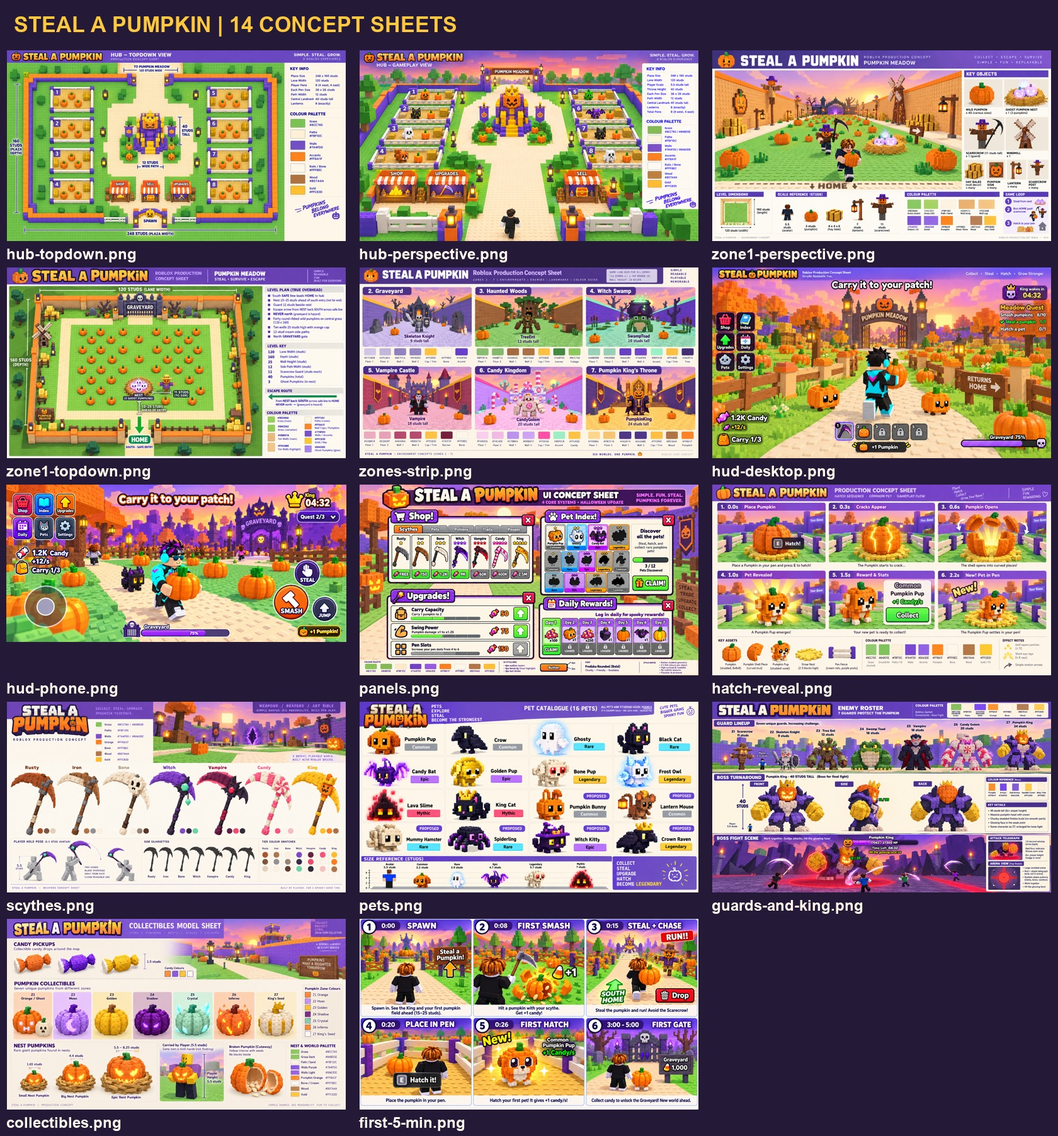
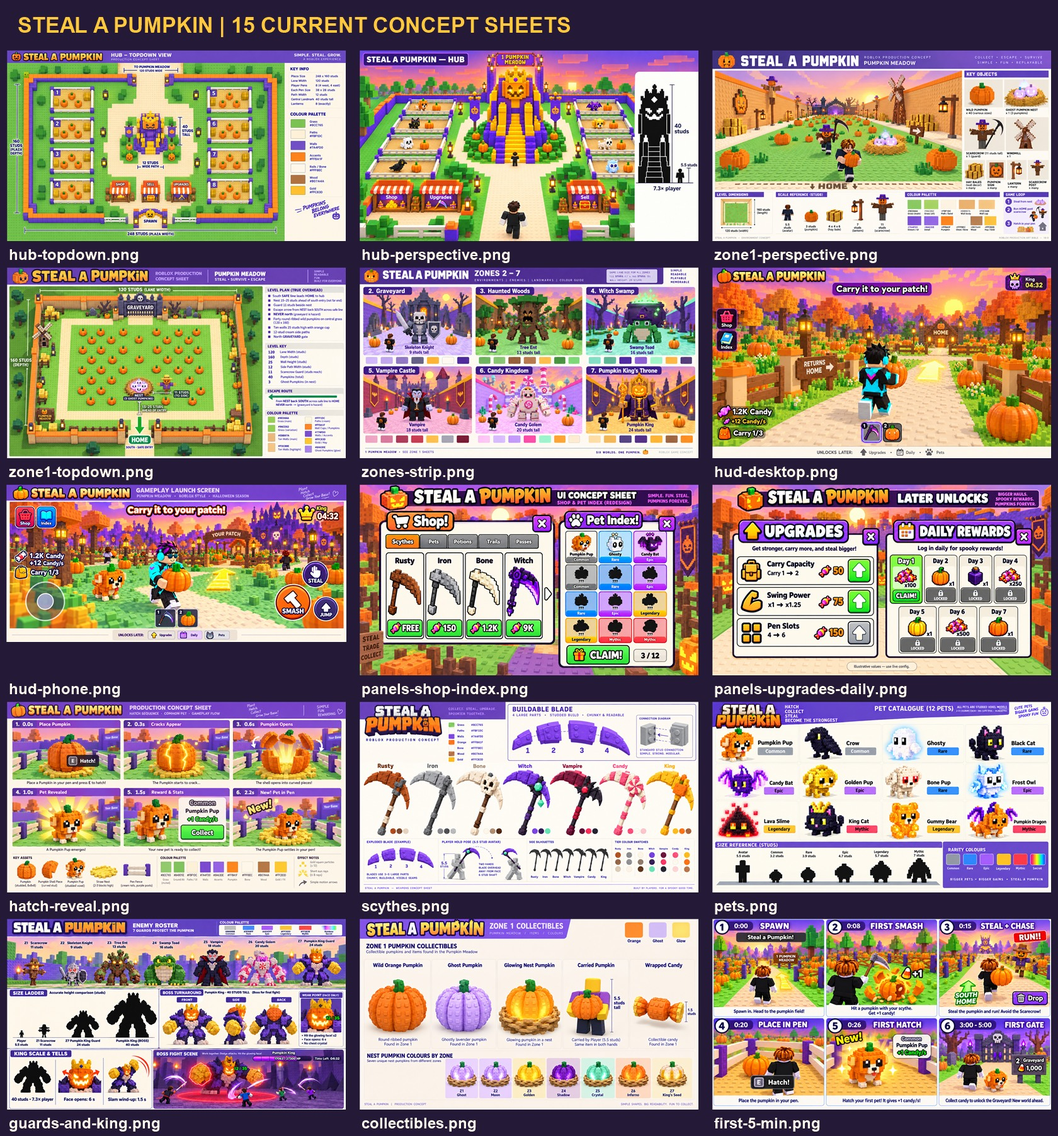
Redraw 11 concept sheets after blind critic (launch HUD, locked Pup, rarity colours)

diff --git a/pumpkin/production/concepts/make_contact_sheet.py b/pumpkin/production/concepts/make_contact_sheet.py
@@ -1,20 +1,23 @@
 from pathlib import Path
 from PIL import Image, ImageOps, ImageDraw, ImageFont
-root=Path(__file__).resolve().parent
-names=['hub-topdown','hub-perspective','zone1-perspective','zone1-topdown','zones-strip','hud-desktop','hud-phone','panels','hatch-reveal','scythes','pets','guards-and-king','collectibles','first-5-min']
-sheet=Image.new('RGB',(1680,1805),'#241a38')
-draw=ImageDraw.Draw(sheet)
-font=ImageFont.truetype('C:/Windows/Fonts/arialbd.ttf',24)
-title=ImageFont.truetype('C:/Windows/Fonts/arialbd.ttf',34)
-draw.text((22,20),'STEAL A PUMPKIN | 14 CONCEPT SHEETS',font=title,fill='#ffc83d')
-for i,name in enumerate(names):
-    path=root/(name+'.png')
-    with Image.open(path) as im: im.verify()
+root = Path(__file__).resolve().parent
+order = ['hub-topdown','hub-perspective','zone1-perspective','zone1-topdown','zones-strip','hud-desktop','hud-phone','panels-shop-index','panels-upgrades-daily','hatch-reveal','scythes','pets','guards-and-king','collectibles','first-5-min']
+current = {p.stem for p in root.glob('*.png') if not p.name.startswith('_refs') and not p.name.endswith('.v1.png')}
+names = [name for name in order if name in current] + sorted(current-set(order))
+sheet = Image.new('RGB', (1680, 80+((len(names)+2)//3)*345), '#241a38')
+draw = ImageDraw.Draw(sheet)
+font = ImageFont.truetype('C:/Windows/Fonts/arialbd.ttf', 24)
+title = ImageFont.truetype('C:/Windows/Fonts/arialbd.ttf', 34)
+draw.text((22,20), f'STEAL A PUMPKIN | {len(names)} CURRENT CONCEPT SHEETS', font=title, fill='#ffc83d')
+for i, name in enumerate(names):
+    path = root/(name+'.png')
     with Image.open(path) as im:
-        thumb=ImageOps.contain(im.convert('RGB'),(540,303))
-        x=(i%3)*560; y=80+(i//3)*345
-        sheet.paste(thumb,(x+(560-thumb.width)//2,y))
+        im.verify()
+    with Image.open(path) as im:
+        thumb = ImageOps.contain(im.convert('RGB'), (540,303))
+        x, y = (i%3)*560, 80+(i//3)*345
+        sheet.paste(thumb, (x+(560-thumb.width)//2,y))
         draw.text((x+10,y+310),name+'.png',font=font,fill='#fff8ec')
-        print(name,im.size,round(im.width/im.height,4))
+        print(name,im.size)
 sheet.save(root/'_sheet.jpg',quality=92)
 

diff --git a/pumpkin/production/concepts/CONCEPTS.md b/pumpkin/production/concepts/CONCEPTS.md
@@ -1,10 +1,20 @@
-# Steal a Pumpkin - concept builder guide
+# Steal a Pumpkin — concept builder guide
 
-14 built-in image_gen PNGs. No game code edits or commit. `_sheet.jpg` is the contact sheet; `PROMPTS.md` is the prompt log.
+15 current PNG concept sheets. Redraws and corrections used the built-in imagegen tool only. Ten original targets have .v1.png backups. panels.png is replaced by two current sheets. No game code edits or commit.
 
-Checked all seven approved TARGET.md files and 35 reference frames, SECTION-PALETTE.md, PatchConfig Zones/Pets/PetSizes/Seeds/Tools, and Keystone Roblox Process Playbook and 2D-stage decision. Independent critic compared sheets to Steal an Egg (world/models/chase) and Pet Simulator 99 (UI/feedback). No downloaded game art or code reused; reference redistribution licence UNKNOWN, frames are review material only.
+Checked: existing sheets, hatch-reveal.png identity, combat-boss/TARGET.md, full PatchConfig.luau including later additions/rarity overrides, and existing Steal an Egg / Pet Simulator 99 reference boards. Existing kit and assets reused as references; no external game code or art downloaded. Reference redistribution licence UNKNOWN; _refs are review material.
 
-Owner-approved style: studded world and voxel pets, 2-3 base colours/object, Halloween palette, PS99 UI kit. New concepts await owner visual approval. Sizes below are design targets except explicitly config values. Exact prose values override generated label errors. No runtime/camera/mobile test is claimed. Bright warm afternoon palette supersedes older darker board lighting: ClockTime16.5 target; no blue terrain/sky, purewhite world trim or acidgreen grass. Cyan rarity UI/FrostOwl accents are exceptions for characters/UI.
+## Locked build rules — 2026-10-11
+
+- Pumpkin Pup authority: hatch-reveal.png. Chubby orange studded voxel puppy, green head stem, big black eyes with square white highlights, cream muzzle/chest/paws, black nose, short four legs and little tongue.
+- Rarity tokens: Common **#B8B8B8**, Rare **#3D8BFF**, Epic **#A64DFF**, Legendary **#FFC83D**, Mythic **#FF3B3B**, Secret **rainbow gradient**. Exact tokens govern implementation; generated gloss/shading is not an exact pixel swatch.
+- Wild pumpkins: round, ribbed, orange, stemmed, faceless. Nest pumpkins: same shell with whole-shell orange/ghost-lavender glow in Zone 1; no glowing eyes/mouth. Guards and King retain their character faces.
+- Zones: **1 Pumpkin Meadow, 2 Graveyard, 3 Haunted Woods, 4 Witch Swamp, 5 Vampire Castle, 6 Candy Kingdom, 7 Pumpkin King's Throne**.
+- Boss weak point: **glowing face only**, green **12 / 35** HP tag, **Hit the glowing face! x2** banner during 6-second opening. No chest crystal.
+- Launch HUD: left Shop/Index only; bottom-left Candy + income/s + Carry 1/3; one goal banner; one glowing ground arrow; small top-right King timer; two-slot hotbar scythe/carried pumpkin. Mobile adds joystick, SMASH, STEAL, JUMP. No quests/progress/extra system tiles; at most one small toast.
+- Numeric stud dimensions below govern building; generated diagrams are approximate visual targets. No runtime/camera/mobile test is claimed.
+- Warm peach/lavender sunset, muted green terrain, cream paths, grape/orange walls, PS99 rounded bevel UI. Four unrequested sheets retain original artwork; these locks override older inconsistencies in them.
+- .v1 and _refs files are not current builder sheets and are excluded from _sheet.jpg.
 
 ## hub-topdown.png
 
@@ -14,13 +24,14 @@ Owner-approved style: studded world and voxel pets, 2-3 base colours/object, Hal
 - Three stalls: Shop, Sell, Upgrades. South spawn, north Pumpkin Meadow gate.
 - Grass #8CC765/#84BD5E, paths #FBF1DC, walls #7A4FD0/#8A63DE, caps #FF8A1F.
 
+
 ## hub-perspective.png
 
-- Match overhead layout: 8 pens, 3 stalls, one north gate and 40-stud throne.
-- Camera target: behind 5.5-stud avatar, about 15 studs high; verify default zoom in Studio.
-- Stalls occupy side alcoves; keep a 12-stud clear route around the throne.
-- Cream rails, grape posts, straw #F2DC9A pen floors; round hatching pumpkins.
-- Secondary station signs target 6 studs high; distinguish them by icon and silhouette.
+- Eight pens, four each side; stalls Shop, Sell, Upgrades in side alcoves; north gate 1 Pumpkin Meadow.
+- Central throne **40 studs** beside **5.5-stud avatar**, about **7.3× player height**; same-baseline inset.
+- Pens: Pumpkin Pup, Crow, Ghosty, Black Cat, Candy Bat, Golden Pup, Bone Pup, Frost Owl only.
+- Locked orange Pumpkin Pup; round faceless pumpkins; cream rails, grape posts, straw floors.
+- Clear routes at least 12 studs. Environment sheet omits HUD; default-camera sightline needs Studio verification.
 
 ## zone1-perspective.png
 
@@ -31,6 +42,7 @@ Owner-approved style: studded world and voxel pets, 2-3 base colours/object, Hal
 - Escape SOUTH HOME across the safe line; Graveyard gate north is progression.
 - Five prop families: hay, windmill, pumpkin sign, decorative scarecrows, lanterns.
 
+
 ## zone1-topdown.png
 
 - Dimension authority: 120 WIDTH × 160 DEPTH, 25 wall height, 12 path width.
@@ -38,39 +50,49 @@ Owner-approved style: studded world and voxel pets, 2-3 base colours/object, Hal
 - Starter nest 15–25 studs beyond south entry; one 11-stud guard directly adjacent.
 - 40 round wild pumpkins; three pale Ghost nest pumpkins; match perspective palette.
 
+
 ## zones-strip.png
 
-- Six panels: Graveyard, Haunted Woods, Witch Swamp, Vampire Castle, Candy Kingdom, Pumpkin King's Throne.
-- Config guards/heights: Skeleton Knight 9, Tree Ent 13, Swamp Toad 16, Vampire 18, Candy Golem 20, Pumpkin King 24 studs.
-- Floor pairs: D7CDEB/CFC4E4; 8FC87A/86BF72; A8D8C0/9ED0B8; EAB8C8/E2AEBF; FAD0E6/F4C4DE; FFD98A/F8CE78.
-- Wall pairs: 8E7FC4/9F92D2; A06A3C/B07A4A; 6A42BC/7A4FD0; A8406A/B8507A; C79BEA/D8B0F2; 4A2D7A/5A3A8E.
-- Landmarks: crypt, hollow tree, cauldron, castle, candy factory, throne. Factory belongs inside Candy Kingdom.
-- All lanes 120 × 160, walls 25; Swamp water muted mint #9ED0B8, never blue.
+- Six panels: **2 Graveyard, 3 Haunted Woods, 4 Witch Swamp, 5 Vampire Castle, 6 Candy Kingdom, 7 Pumpkin King's Throne**.
+- Guards fill about half each scene height; lane floors and routes remain readable.
+- Skeleton Knight 9, Tree Ent 13, Swamp Toad 16, Vampire 18, Candy Golem 20, Pumpkin King guard 24 studs.
+- Landmarks: crypt, hollow tree, cauldron, castle, candy factory, throne.
+- Round ribbed faceless orange wild pumpkins; lanes 120 × 160, walls 25 studs.
+- Original floor/wall palettes retained; Swamp floor muted mint, never blue.
 
 ## hud-desktop.png
 
-- 1920 × 1080 design, 16:9; Fredoka rounded font with 3 px dark stroke, 4–5 px for banners.
-- Left 2 × 3 icon tiles, 86 px target, within 15% width; currency stack lower left.
-- One plain objective, one King/event timer, right quest tracker; centre 30–40% clear.
-- Yellow #FFE14A toasts: 28 px, rise 40 px, fade 1.2 s, maximum four; thin next-gate bar.
-- Full HUD shows unlocked systems. Opening three minutes capped at 8 elements; counters illustrative.
+- Launch HUD only: Shop/Index left; Candy, income/s, Carry 1/3 bottom-left.
+- One top-centre goal, one glowing ground arrow toward HOME patch, small King timer top-right.
+- Exactly two hotbar slots: scythe, faceless round carried pumpkin; avatar holds it in both hands.
+- No quests, progress bar or extra system tiles. Gameplay centre clear.
+- Edge inset **UNLOCKS LATER: Upgrades • Daily • Pets** is builder guidance outside live HUD.
+- Design target 1920 × 1080; illustrated counters are examples.
 
 ## hud-phone.png
 
-- 19.5:9 landscape, reference 2340 × 1080; 32 logical px safe inset, 48 logical px minimum tap targets.
-- Currency inside gameplay above left joystick; objective top centre, single King chip and collapsed quest upper right.
-- Separate Smash, Steal and Jump controls on right; keep centre 40% clear.
-- Mobile can adapt menu to 3 columns × 2 rows; desktop remains 2 × 3.
-- Verify actual mobile scaling in Studio; this image is a visual target.
+- Roblox mobile landscape; wide gameplay frame with separate builder footer.
+- Shop/Index top-left; joystick bottom-left; Candy/income/carry directly above it.
+- Big orange SMASH and purple STEAL, smaller purple JUMP bottom-right.
+- One goal, one ground arrow toward patch, small King timer, exactly two hotbar slots.
+- Locked Pumpkin Pup; faceless round pumpkins; no quests/progress/extra menu tiles.
+- Later-unlock strip outside gameplay. Targets: 32 logical px safe inset, 48 logical px minimum tap area; Studio mobile verification pending.
 
-## panels.png
+## panels-shop-index.png
 
-- Four panels: Shop/Scythes, Index, Upgrades, Daily. Cream cards, grape/orange headers, red X, glossy bevel.
-- Individual panel target 0.5w × 0.62h; 4 px outline, 4 px lower lip, 3 px text stroke.
-- Seven tiers: Rusty, Iron, Bone, Witch, Vampire, Candy, King. Config candy prices: 0/150/1,200/9,000/60,000/400,000/2,500,000.
-- Index builder count: 12 slots, 3 known/9 silhouettes; rarity borders, stars, labels, progress and green Claim. Generated extra tile is not a build instruction.
-- Upgrade rows show before/after, segmented progress, cost and green/grey arrow; Daily has 7 day tiles and one current Claim.
-- Upgrade prices and daily rewards shown are illustrative; use live configuration.
+- Two large panels in cream/grape/orange PS99 kit; purple close buttons, larger labels.
+- Scythes tab: four visible cards Rusty FREE, Iron 150, Bone 1.2K, Witch 9K; chevron for later tiers.
+- Iron silver/grey, Rusty brown; green purchase buttons.
+- Index exactly **3 columns × 4 rows = 12 tiles**: three revealed, nine silhouettes.
+- Pumpkin Pup Common, Ghosty Rare, Candy Bat Epic; locked rarity borders, 3 / 12 count, one Claim button.
+- Remaining seven-tier names/prices are Rusty/Iron/Bone/Witch/Vampire/Candy/King at 0/150/1,200/9,000/60,000/400,000/2,500,000 Candy.
+
+## panels-upgrades-daily.png
+
+- Separate **later-unlocked** modal designs; never place their tiles in launch HUD.
+- Upgrades: Carry Capacity, Swing Power, Pen Slots; large before/after values, costs, green/grey arrows.
+- Daily exactly seven tiles arranged 4 + 3; Day 1 Claim, other days locked.
+- Values/rewards illustrative; use live config. Round faceless pumpkin rewards; no invented pets.
 
 ## hatch-reveal.png
 
@@ -80,54 +102,59 @@ Owner-approved style: studded world and voxel pets, 2-3 base colours/object, Hal
 - Same studded voxel Pumpkin Pup; Common grey, income green +1 Candy/s example, green Collect.
 - Effect target: at most 8 rays and 12 spark chips; avoid covering gameplay.
 
+
 ## scythes.png
 
-- Exactly 7 tiers: Rusty, Iron, Bone, Witch, Vampire, Candy, King. WoodenScythe internal ID displays Iron Scythe.
-- Long stepped crescent blades; shafts about 6 studs, blade widths 3.6–6 studs as concept targets.
-- Tier motifs: tape, rivets, skull, mint gem, bat wings, pinwheel, crowned pumpkin.
-- 2–3 base colours plus one glow accent; studs on blades/collars; no realistic textures.
-- Held pose compares 5.5-stud avatar; blade away from face, two hands, readable swing arc; validate actual grip.
+- Exactly seven tiers: Rusty, Iron, Bone, Witch, Vampire, Candy, King.
+- Rusty reddish brown blade/taped wood shaft; **Iron silver/grey metal**, dark grey shaft, riveted collar.
+- Blades use **3–5 large chunky block/wedge parts** with visible seams; exploded examples show four pieces.
+- Motifs: tape, rivets, skull, mint gem, bat wings, pinwheel, crowned pumpkin medallion.
+- 2–3 base colours plus glow; about 6-stud shafts; held pose against 5.5-stud avatar.
+- Technical inset replaces unnecessary world/HUD. Validate actual grip, swing and part counts in Studio.
 
 ## pets.png
 
-- 16 designs: ten config pets plus six PROPOSED additions; proposals are not authorized game content.
-- Config: Pumpkin Pup/Crow Common; Ghosty/Black Cat Rare; Candy Bat/Golden Pup Epic; Bone Pup/Frost Owl Legendary; Lava Slime/King Cat Mythic.
-- Proposals: Pumpkin Bunny, Lantern Mouse, Mummy Hamster, Spiderling, Witch Kitty, Crown Raven.
-- Studded voxel bodies, stepped ears/wings/tails, big black eyes with one bone highlight; 2–3 base colours.
-- Config heights: Common 3.2, Rare 3.9, Epic 4.7, Legendary 5.7, Mythic 7 studs; avatar 5.5.
-- Common no aura; Rare cyan rim, Epic violet, Legendary gold, Mythic rose; character/UI exceptions allowed.
+- **12 roster designs only**: Pumpkin Pup, Crow, Ghosty, Black Cat, Candy Bat, Golden Pup, Bone Pup, Frost Owl, Lava Slime, King Cat, Gummy Bear, Pumpkin Dragon.
+- Full config contains 15 pets. Selection uses original ten plus Gummy Bear and Pumpkin Dragon; Moth, Toad and Pumpkin Kinglet are not depicted. No PROPOSED tags.
+- Final config rarities: Pumpkin Pup/Crow Common; Ghosty/Black Cat/Bone Pup Rare; Candy Bat/Golden Pup/Frost Owl Epic; Lava Slime/Gummy Bear Legendary; King Cat/Pumpkin Dragon Mythic.
+- Exact hatch-reference orange Pumpkin Pup; studded voxel bodies, stepped ears/wings/tails, 2–3 base colours.
+- Size targets against **5.5-stud avatar**: Common 3.2, Rare 3.9, Epic 4.7, Legendary 5.7, Mythic 7 studs.
+- Same-baseline silhouettes show size progression; numeric values govern construction. Secret rainbow is only a palette swatch.
 
 ## guards-and-king.png
 
-- Seven guards, exact config names/heights from zones-strip; avatar 5.5-stud scale reference.
-- King boss target 40 studs, separate from 24-stud Zone 7 guard; consistent front/side/back turnaround.
-- Orange crowned pumpkin head, purple armour, gold fists, walking feet; separate arms for tells.
-- One HP bar 40–45% screen width with six dividers, one timer; small green weak-point tag.
-- Red #FF1A1A floor telegraphs, 1.5 s slam wind-up target, attacking fist outline; red reserved for threats.
-- Dull purple arena, clear avatars/crescent trails; illustrated HP is not verified live stats.
+- Seven zone guards; Zone 1 Scarecrow 11, Zone 7 Pumpkin King guard 24 studs.
+- Separate King boss **40 studs**. Size ladder: **Player 5.5 / Zone 1 guard 11 / Zone 7 guard 24 / King 40**.
+- Orange crowned head, purple armour, gold fists, walking feet and separate arms.
+- **Face-only glowing weak point**, green 12 / 35 HP tag; face opens 6 seconds, not a six-second stun.
+- Exact opening banner: **Hit the glowing face! x2**. No chest crystal.
+- Fight inset: dull purple arena, one segmented boss HP bar, one timer; red floor telegraph and attacking-fist outline, slam wind-up 1.5 seconds.
+- HP examples are illustrative. Build targets override approximate silhouette ratios.
 
 ## collectibles.png
 
-- Wrapped candy target 1.5 studs wide; orange/grape/gold/bone wrappers, bright chunky pickups.
-- Pumpkins must be ROUND, ribbed, lobed, stemmed; hollow orange rind, cream seeds, NO cubes inside.
-- Config hoard types by zone: Ghost, Moon, Golden, Shadow, Crystal, Inferno, King's Seed. Orange is starter wild type.
-- Visual size ladder: 1.65 small, 4.4 big, 5.5–8.25 nest pumpkin; concept targets, not balance changes.
-- Player carries pumpkin ONLY in two hands; nest remains on ground.
+- **Zone 1 only** primary catalogue: wild orange pumpkin, ghost-lavender pumpkin, glowing nest pumpkin, carried pumpkin, wrapped candy.
+- All pumpkins round/ribbed/stemmed/faceless; no cube cores. Nest glow covers the whole shell.
+- Avatar 5.5 studs carries same pumpkin in both hands; wrapped candy target 1.5 studs wide.
+- Small per-zone nest strip: **1 Ghost, 2 Moon, 3 Golden, 4 Shadow, 5 Crystal, 6 Inferno, 7 King's Seed**.
+- Item state does not assign rarity; no invented rarity pills.
 
 ## first-5-min.png
 
-- Six panels: spawn, smash, steal/chase, place, hatch, first gate; same avatar/pup/guard.
-- TARGET timeline 0:00/0:08/0:15/0:20/0:26/3:00–5:00; not measured playtest results.
-- Three objectives: Steal a Pumpkin! → Carry it to your patch! → Hatch it! Placed prompt: E Hatch!
-- Chase SOUTH HOME, guard follows from north; only final panel approaches Graveyard. Config gate price 1,000 candy.
-- Round pumpkins, curved rind, candy arc, one floater; Common Pumpkin Pup +1 Candy/s, New! toast/free Index marker.
-- Maximum 8 opening HUD items; no blocking modal or purchase prompt in first five minutes.
+- Six beats: spawn, smash, steal/chase, place, hatch, first gate; same avatar and locked orange Pumpkin Pup.
+- Target timeline 0:00 / 0:08 / 0:15 / 0:20 / 0:26 / 3:00–5:00; not measured results.
+- Spawn goal **Steal a Pumpkin!**, arrow toward **1 Pumpkin Meadow**. Chase escapes **SOUTH HOME**, away from northern guard.
+- **Purple Drop button**; red RUN means danger. Placed interaction **E Hatch!**.
+- Round faceless pumpkins, hollow curved rind/cream seeds, one candy floater.
+- Pup in hatch/gate beats matches hatch-reveal.png; Common grey, green +1 Candy/s.
+- Final gate **2 Graveyard**, shown price 1,000 Candy. Storyboard vignettes omit full HUD; two HUD sheets are launch authority.
 
 ## Review limits and lessons
 
-Least settled: **hub-perspective** (default-camera sightline needs Studio proof) and **panels** (dense small labels; Index image has an extra tile). Build the precise counts above. Owner phone review is still pending.
+Visually checked all 11 new current sheets against the requested locks and existing Steal an Egg / PS99 references. Used targeted built-in imagegen corrections for cubic pumpkins, face-shaped nest glows, stale rarity labels, extra HUD and misleading rulers. Independent read-only critic reviewed all 11 changed PNGs, the contact sheet, hatch reference, model/UI reference boards, boss TARGET and final config rarity overrides: PASS, no serious mismatch requiring another redraw. No numeric score assigned. Scale drawings remain approximate; runtime behavior was not tested. Studio scale/camera/mobile checks remain UNKNOWN.
 
-- When escape and progression share a lane, draw HOME direction first because the far gate otherwise reads as the escape goal.
-- When using studded style, specify round hollow pumpkins separately because generation tends to cube every object.
-- When generating mobile HUDs, require currency inside gameplay because asset margins can hide missing controls.
+- When a config mutates its roster later, read the overrides because the first table can contain stale rarities.
+- When generating nest pumpkins, request whole-shell glow because localized light can become a jack-o-lantern face.
+- When comparing scale, use one baseline because perspective and labels alone can hide wrong proportions.
+
 

diff --git a/pumpkin/production/concepts/PROMPTS.md b/pumpkin/production/concepts/PROMPTS.md
@@ -111,3 +111,81 @@ Keep studded world, eightpens4perside, throne40stud, threestalls andcolour. Came
 Reference: concepts/hub-perspective.png
 
 Final cleanup: hub-perspective added missing Upgrade stall, then moved it beside Shop to clear centre route; first-5-min recomposed to 16:9; scythes title Wooden renamed Iron. References were each current concept PNG.
+
+
+## Redraw pass — 2026-10-11 (built-in imagegen only)
+
+Shared prompt:
+
+STEAL A PUMPKIN production concept. Landscape 16:9. Match existing cream page/grape title strip, warm peach sunset, orange/grape/bone/gold Halloween palette, actual Roblox studded brick world and chunky voxel models, PS99 glossy bevel rounded bold dark-outlined UI. Big readable text, sparse callouts. Round ribbed stemmed pumpkins with NO faces and NO cube cores; nest pumpkins same shape glowing orange or ghost lavender in Zone1. Pets may have faces; guards and King keep their existing character faces, King weak point ONLY glowing FACE with green 12 / 35 tag, no chest crystal. Pumpkin Pup exact hatch reference: chubby orange studded voxel puppy, wide square head, drooping block ears, green stem, big black eyes with square white highlight, cream muzzle/chest/paws, black square nose, little red tongue, four short legs. Rarity labels/borders: Common #B8B8B8; Rare #3D8BFF; Epic #A64DFF; Legendary #FFC83D; Mythic #FF3B3B; Secret rainbow. Zone1 Pumpkin Meadow,2 Graveyard,3 Haunted Woods,4 Witch Swamp,5 Vampire Castle,6 Candy Kingdom,7 Pumpkin King's Throne. Gameplay launch HUD only Shop Index left, Candy and income/s and Carry1/3 bottom-left, ONE top centre goal banner, ONE glowing ground arrow toward goal, small King timer top-right, two-slot hotbar scythe and faceless carried pumpkin; no quest list/progress bar/Daily/Pets/Settings/Upgrades tiles. At most one small toast. Red danger only except fixed Mythic rarity.
+
+### hud-desktop.png
+
+References: hud-desktop.v1.png, hatch-reveal.png
+
+Redraw image1 desktop launch HUD. Remove entire six-tile cluster, quests, bottom gate progress, extra hotbar slots and cube pets. Use only Shop and Index stacked far left. Bottom-left '1.2K Candy', '+12 Candy/s', 'Carry 1/3'. Top-centre one grape banner 'Carry it to your patch!'; top-right SMALL 'King 04:32' chip. Bottom-centre EXACTLY two hotbar slots numbered1 scythe and2 faceless round pumpkin. Avatar carrying ribbed pumpkin in BOTH hands, centre open around avatar. One single glowing gold ground arrow points to HOME patch, not far progression gate. Inset separate builder strip along outer bottom sheet margin 'UNLOCKS LATER: Upgrades • Daily • Pets' as small grey icons, distinctly outside gameplay. No additional UI. Same scene/art quality as reference, readable 16:9 desktop.
+
+### hud-phone.png
+
+References: hud-phone.v1.png, hatch-reveal.png
+
+Redraw mobile landscape launch HUD. Wide 19.5:9 gameplay frame inside landscape production sheet with narrow outer builder footer. Top-left ONLY Shop and Index tiles. Bottom-left translucent joystick, Candy '+12 Candy/s' Carry1/3 immediately above joystick. Big orange SMASH and purple STEAL buttons plus smaller purple JUMP bottom-right. Top-centre one goal 'Carry it to your patch!', small top-right 'King 04:32'. Exactly two-slot hotbar scythe/pumpkin lower centre. Centre empty of UI and open lane around avatar carrying faceless round ribbed orange pumpkin with both hands. One glowing GOLD ground arrow toward nearby HOME patch. No quests, progress, extra menu tiles. Footer inset 'UNLOCKS LATER: Upgrades • Daily • Pets' clearly outside live screen. Large readable control text.
+
+### panels-shop-index.png
+
+References: panels.v1.png, hatch-reveal.png
+
+Split redesign, ONLY two large panels side by side on cream concept page: SHOP on left and INDEX on right. Shop Scythes tab, EXACTLY FOUR visible tier cards Rusty brown 'FREE', Iron SILVER/GREY '150', Bone cream '1.2K', Witch purple '9K'. Big names and prices, green purchase buttons, chunky blades made3-5 blocks. One small forward chevron suggests later tiers. Index EXACT3 columns x4 rows=12 tiles. First3 revealed Pumpkin Pup Common grey, Ghosty Rare blue, Candy Bat Epic purple. Remaining9 black silhouettes with rarity borders: row2 Common/Rare/Epic; row3 Rare/Epic/Legendary; row4 Legendary/Mythic/Mythic. No extra tile outside grid. No progress bar, no long help text, no upgrades/daily panel. Green Claim button below grid, small '3 / 12' count. Orange Shop header, grape Index header, cream cards thick dark outlines and glossy bevels, big sparse text. Locked Pup identity from image2.
+
+### panels-upgrades-daily.png
+
+References: panels.v1.png
+
+Split redesign ONLY two LARGE later-unlocked modal panels side by side UPGRADES and DAILY. Sheet title 'LATER UNLOCKS'. Upgrades three spacious rows Carry Capacity '1 → 2' example cost50, Swing Power 'x1 → x1.25' cost75, Pen Slots '4 → 6' cost150; green up arrow buttons, final grey locked button. Daily EXACT7 day cards in two rows4+3, Day1 green CLAIM, days2-7 grey LOCKED. Rewards wrapped candy, round faceless orange or gold pumpkins, potion; no invented pets. Huge readable labels minimal text. Footer 'Illustrative values — use live config'. PS99 thick dark outlines cream surfaces grape headers orange accents glossy bevels. Purple close X, not red. No gameplay HUD.
+
+### pets.png
+
+References: pets.v1.png, hatch-reveal.png
+
+Replace catalogue with EXACTLY TWELVE PET CARDS in4 columns3rows: row1 Pumpkin Pup Common, Crow Common, Ghosty Rare, Black Cat Rare; row2 Candy Bat Epic, Golden Pup Epic, Bone Pup Rare, Frost Owl Epic; row3 Lava Slime Legendary, King Cat Mythic, Gummy Bear Legendary, Pumpkin Dragon Mythic. No PROPOSED labels, no extra creatures. Match exact hatch Pup in image2, cream muzzle chest paws tongue and orange body. Big black pet eyes, studs, 2-3 base colours; Gummy Bear chunky translucent gold/orange bear, Pumpkin Dragon orange voxel dragon with purple wings/stem. Rarity pill exact colours locked including blue Rare not cyan. Lower footer SIZE LADDER as simple silhouettes on same baseline vs5.5-stud avatar, Common3.2, Rare3.9, Epic4.7, Legendary5.7, Mythic7. Use silhouettes in ladder so catalogue still exactly12 full pet designs. Scale ladder must visually increase correctly. Small rarity colour legend with Secret rainbow only swatch.
+
+### hub-perspective.png
+
+References: hub-perspective.v1.png, hatch-reveal.png
+
+Redraw hub perspective keep8 pens4 each side, stalls Shop Sell Upgrades alcoves, one Pumpkin Meadow north gate, cream12-stud route, muted green grass purple studded walls orange caps warm sunset. Main correction CENTRAL KING THRONE MONUMENT visibly40studs tall, roughly7.3 times5.5-stud avatar, colossal centre landmark. Put comparison avatar directly at throne foot same depth with vertical scale40 and5.5. Foreground avatar may larger due perspective but provide same-plane inset scale silhouette to remove ambiguity. Thrones purple gold, crowned orange King FACE glowing weak point, no crystal. Pens ONLY roster pets: exact locked orange Pumpkin Pup image2, Crow, Ghosty, Black Cat, Candy Bat, Golden Pup, Bone Pup, Frost Owl, one per pen; no green monster or off-roster dog. Ribbed faceless round pumpkins in pens. Clean main hero view and narrow right scale notes, avoid crowding.
+
+### zones-strip.png
+
+References: zones-strip.v1.png
+
+Redraw SIX panels3columns2rows Zones2-7, same environments and palette. Guards LARGE fill at least half scene panel height, but lane FLOOR clearly occupies lower third with readable studded route either side. Correct headings 2 Graveyard /3 Haunted Woods /4 Witch Swamp /5 Vampire Castle /6 Candy Kingdom /7 Pumpkin King's Throne. Guards Skeleton Knight9, Tree Ent13, Swamp Toad16, Vampire18, Candy Golem20, Pumpkin King GUARD24studs. Guard King face glowing, no chest weak point. Landmarks crypt/hollow tree/cauldron/castle/candy factory/throne behind guard with uncluttered lanes. Faceless ROUND ribbed orange wild pumpkins never cubic. Small5.5-stud avatar at side of each guard for scale. Put sparse palette swatches beneath each scene, no tiny prose. Header 'ZONES 2–7'; footer '1 Pumpkin Meadow • see Zone 1 sheets'. Keep mint Swamp floor, lavender graveyard,green woods,rose castle,pink candy,gold throne.
+
+### scythes.png
+
+References: scythes.v1.png
+
+Redraw seven-tier weapon model sheet EXACT7 scythes Rusty Iron Bone Witch Vampire Candy King. Biggest correction Iron blade entirely SILVER/GREY metal with grey riveted collar and darkgrey handle, distinct from rusty reddishBROWN blade with taped wood handle. Each blade buildable from EXACT3-5 visibly separate large chunky block/wedge segments, stepped crescent not smooth finely-tessellated curve. Show seam lines on blades. 2-3 basecolours per weapon plus1 glow. Bone cream skull, Witch violet mint gem,Vampire burgundy bat,Candy pink cream pinwheel,King gold orange pumpkin medallion faceless motif. Remove facial pumpkin decor in background. Footer one simple exploded blade diagram with4 numbered chunky segments and5.5-stud avatar two-hand pose6studshaft, palette swatches. Large names, sparse callouts, studded actual Roblox parts style.
+
+### collectibles.png
+
+References: collectibles.v1.png
+
+Redraw Zone1ONLY primary catalogue five LARGE examples: 'Wild Orange Pumpkin' round ribbed orange stem NOface no glow; 'Ghost Pumpkin' same ribbed shape pale ghostlavender NOface; 'Glowing Nest Pumpkin' same round ribbed orange/lavender shape gold/lavender glow on straw nest NOface; 'Carried Pumpkin'5.5-stud avatar holding SAMEfaceless round ribbed orange pumpkin in BOTH hands; 'Wrapped Candy' chunky orange/grape/gold wrapper1.5studs. Main page not seven variants. Small footer strip per-zone nest variants EXACT7 faceless ribbed thumbnails labelled1 Ghost,2 Moon,3 Golden,4 Shadow,5 Crystal,6 Inferno,7 King's Seed. Correct number-to-zone mapping. No eyes or mouths anywhere on pumpkins, no cubes or square core. Small hollow curved rind cutaway with cream seeds optional near main nest, sparse labels.
+
+### guards-and-king.png
+
+References: guards-and-king.v1.png
+
+Redraw enemy sheet retain7 guard designs and names/heights: Z1 Scarecrow11 Z2 Skeleton Knight9 Z3 Tree Ent13 Z4 Swamp Toad16 Z5 Vampire18 Z6 Candy Golem20 Z7 Pumpkin King GUARD24. Add prominent ACCURATE same-baseline SIZE LADDER lower/middle row silhouettes: Player5.5 / Zone1Guard11 / Zone7Guard24 / KingBOSS40 STUDS. Height ratios1:2:4.36:7.27 drawn honestly. Boss turnaround frontsideback purple armor gold fists orange crowned head, weak point ONLY GLOWINGFACE highlighted inset green '12 / 35', exact banner 'Hit the glowing face! x2' small note '6 seconds'. Fight inset dullpurple arena, red danger floor disc and attacking fist outline, one segmented boss HPbar40-45% width and one timer. No red environment props/sky. Explicit differentiate24guard and40boss. No chest crystal. Sparse large labels.
+
+### first-5-min.png
+
+References: first-5-min.v1.png, hatch-reveal.png
+
+Redraw6beat storyboard3columns2rows maintain times 0:00 Spawn,0:08 First Smash,0:15 Steal + Chase,0:20 Place in Pen,0:26 First Hatch,3:00–5:00 First Gate. SAME blackclothed orange-haired avatar. Replace ALL pupil designs in panels5and6 with EXACT locked Pumpkin Pup image2 chubbyorange fourlegs cream muzzle chestpaws droopingears blackeyes greenstem tongue; panel6 follows avatar visibly pup not faceless walkingpumpkin. Dropbutton PURPLE or GREY neverred; RUN danger mayred. Wild/nest/carried pumpkin roundribbed NOface, cracked rind hollow seeds no cube. Groundarrow points SOUTH HOME in chase while guard fromnorth. If HUD depicted enforce launch HUD only; no lists/bars. Common taggrey#B8B8B8 '+1 Candy/s'green, one small New toast. Gate heading '2 Graveyard'price1000. Main top goal as needed singlebanner. King's distant throne colossal40studvs5.5 and glowingface only. Large captions limited one perbeat.
+
+### Final targeted revisions
+
+Collectibles: full-shell glow, no facial cutouts or state-based rarity pills; Z1 Ghost lavender. Pets: same-baseline silhouette ladder, remove misleading ruler. Hub: no HUD/stale rarity labels, 40/5.5 comparison, labelled gate and stalls, side-by-side scale inset. Zones: replace cube pumpkins with round ribbed shells. Scythes: four-piece exploded diagrams without world/HUD. Guards: silhouette ladder and face-open6s wording, not stun. Shop/Index: purple close buttons. Storyboard: no partial HUD; spawn toward Meadow and E Hatch prompt. Exact build values are in CONCEPTS.md.
+
